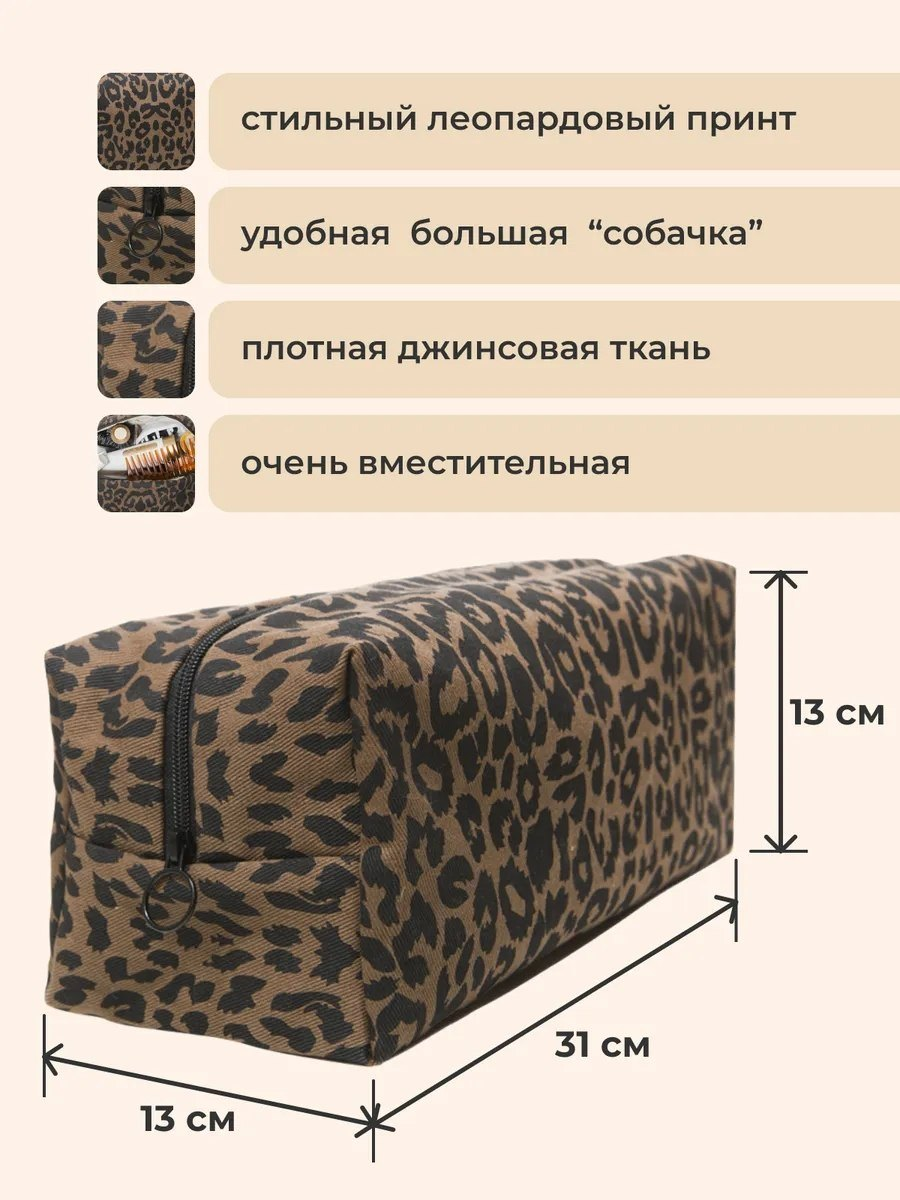
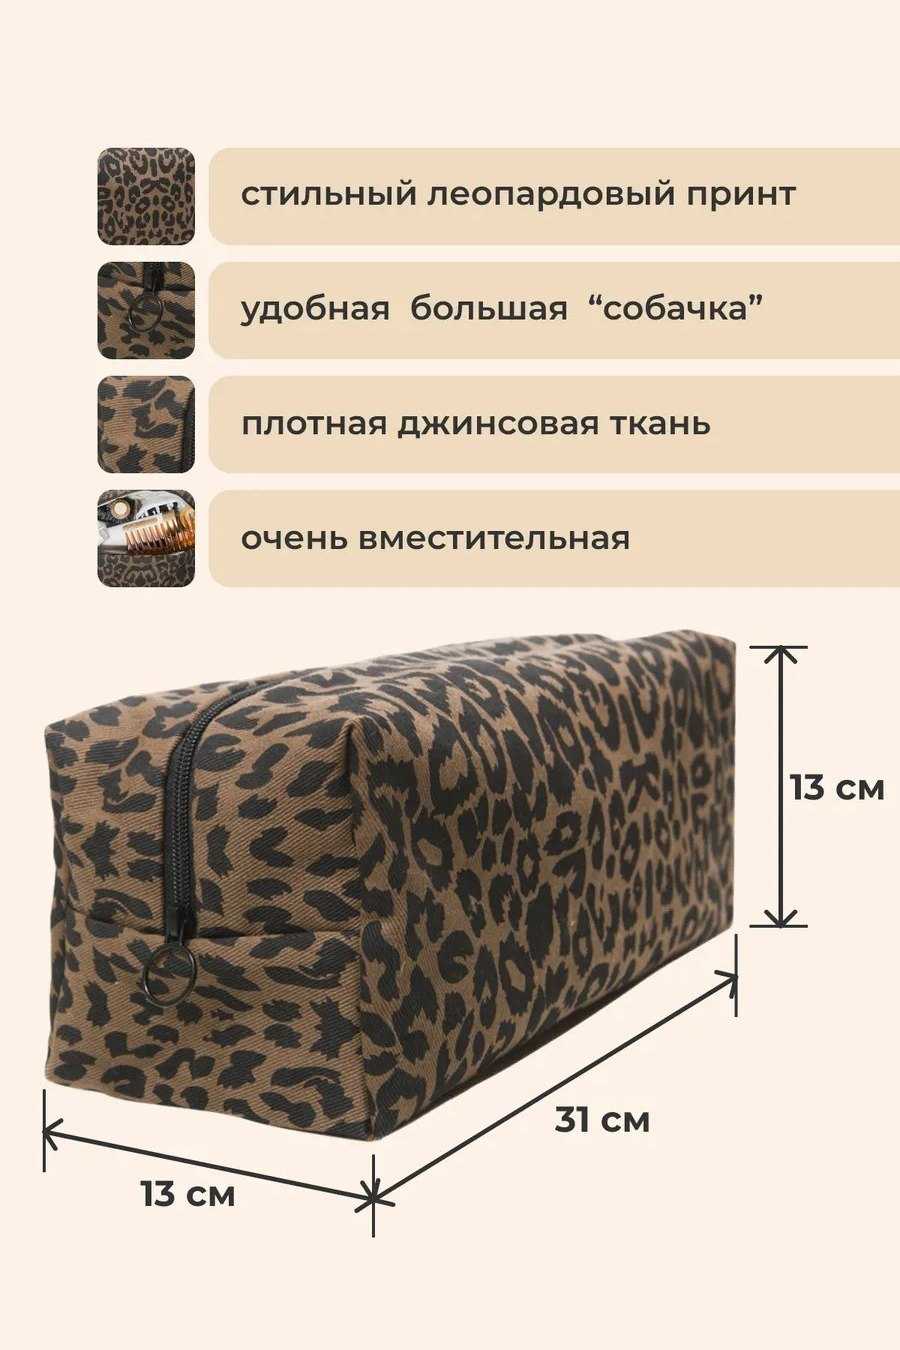
Фото косметички влезают в рамку; уведомления спрашиваем только в приложении
ФОТО. Съёмка пришла в 3:4, а витрина показывает кадр в рамке 2:3 и режет
лишнее по бокам. У инфографики из-за этого обрывался текст: «13 см» теряло
букву, «для насадок» обрезалось, у коробки срезало края — владелец так и
сказал, «показывается не полностью». Кадры дополнены до 2:3 полями цвета
студийного фона, а у снимка с коробкой сняты впечатанные чёрные поля по
50 пикселей — без них он ровно 2:3 и подгонять нечего.

Заменяем только фотографии, вторым посевом: название, цена и описание —
дело владельца, их не трогаем. Посев умеет теперь не только заводить
карточку, но и править существующую.

УВЕДОМЛЕНИЯ. Полоса «Сообщать о заказе?» больше не показывается на сайте —
только в установленном приложении, как и просил владелец: на витрину человек
зашёл посмотреть, а приложение поставил осознанно. То же и для карточки на
экране «Заказ оформлен». Экран Профиль → Уведомления остаётся доступен
везде: туда приходят сами, это не навязывание.

Проверено: с чистого состояния оба посева отрабатывают по разу и молчат при
повторе, все пять фото становятся 2:3 и в рамке видны целиком.

diff --git a/server/seed-products.js b/server/seed-products.js
@@ -62,19 +62,24 @@ function writeMarks(applied) {
    Сами посевы. Ключ — то, по чему считается «уже применён»; менять его нельзя,
    иначе товар заведётся второй раз.
    -------------------------------------------------------------------------- */
+/** Фотографии косметички в порядке показа. */
+function bagPhotos() {
+  return [
+    dataUrl('seed/bag/01-glavnoe.jpg'),
+    dataUrl('seed/bag/02-vnutri.jpg'),
+    dataUrl('seed/bag/03-razmery.jpg'),
+    dataUrl('seed/bag/04-kachestvo.jpg'),
+    dataUrl('seed/bag/05-korobka.jpg')
+  ].filter(Boolean);
+}
+
 const SEEDS = [
   {
     key: 'bag-treeza-2026-09',
     title: 'косметичка-чехол TREEZA',
     sku: 'LC-BAG-TREEZA',
     build: () => {
-      const photos = [
-        dataUrl('seed/bag/01-glavnoe.jpg'),
-        dataUrl('seed/bag/02-vnutri.jpg'),
-        dataUrl('seed/bag/03-razmery.jpg'),
-        dataUrl('seed/bag/04-kachestvo.jpg'),
-        dataUrl('seed/bag/05-korobka.jpg')
-      ].filter(Boolean);
+      const photos = bagPhotos();
       /* Без фотографий карточку не заводим: пустая плитка на витрине хуже,
          чем отсутствующая. */
       if (!photos.length) return null;
@@ -103,6 +108,22 @@ const SEEDS = [
         on: true
       };
     }
+  },
+  {
+    /* Съёмка пришла в 3:4, а витрина показывает фото в рамке 2:3 и режет
+       лишнее по бокам: у инфографики обрывался текст — «13 см» теряло букву,
+       «для насадок» обрезалось, у коробки срезало края. Кадры дополнены до
+       2:3 полями цвета студийного фона, у одного сняты впечатанные чёрные
+       поля. Меняем только фотографии: название, цена и описание — дело
+       владельца, их не трогаем. */
+    key: 'bag-treeza-photos-2x3',
+    title: 'фото косметички под рамку витрины',
+    sku: 'LC-BAG-TREEZA',
+    patch: (p) => {
+      const photos = bagPhotos();
+      if (!photos.length) return null;
+      return { id: p.id, img: photos[0], gal: photos };
+    }
   }
 ];
 
@@ -120,14 +141,32 @@ function run() {
     /* Подстраховка от повторного заведения, если отметка потерялась, а товар
        на месте: одинаковый артикул — почти наверняка он и есть. */
     let already = false;
-    try {
-      already = (listProducts({ all: true }) || []).some(
-        (p) => String(p.sku || '').trim() === seed.sku
-      );
-    } catch (_) {}
+    if (!seed.patch) {
+      try {
+        already = (listProducts({ all: true }) || []).some(
+          (p) => String(p.sku || '').trim() === seed.sku
+        );
+      } catch (_) {}
+    }
 
     try {
-      if (already) {
+      if (seed.patch) {
+        /* Правка существующей карточки. Нет её — значит владелец удалил;
+           навязывать нечего, отмечаем как отработанный и идём дальше. */
+        const cur = (listProducts({ all: true }) || [])
+          .find((p) => String(p.sku || '').trim() === seed.sku);
+        if (!cur) {
+          console.log(`Посев «${seed.title}»: карточки нет, править нечего`);
+        } else {
+          const patch = seed.patch(cur);
+          if (!patch) {
+            console.warn(`Посев «${seed.title}»: нечем править, пропускаю`);
+            continue;        /* отметку не ставим — попробуем в следующий раз */
+          }
+          upsertProduct({ ...cur, ...patch });
+          console.log(`Посев «${seed.title}»: карточка #${cur.id} обновлена`);
+        }
+      } else if (already) {
         console.log(`Посев «${seed.title}»: уже есть в каталоге, пропускаю`);
       } else {
         const payload = seed.build();

diff --git a/public/index.html b/public/index.html
@@ -6345,7 +6345,9 @@ function scrDone(){
     <span class="done__ic">${svg(awaitingPay ? 'lock' : 'check','ic')}</span>
     <h1 class="done__t">${title}</h1>
     <p class="done__s">${sub}</p>
-    ${notifCard('Сообщим, когда заказ передадут в доставку — не придётся заходить и проверять.')}
+    ${(window.lcApp && lcApp.installed())
+      ? notifCard('Сообщим, когда заказ передадут в доставку — не придётся заходить и проверять.')
+      : ''}
     ${o ? `<div class="cosec" style="margin:18px 0 0;text-align:left">
       <div class="cosec__t">Детали заказа</div>
       <div class="row"><span class="row__l">Сумма</span><span class="row__v">${money(o.price)}</span></div>
@@ -9253,7 +9255,12 @@ function offerNotif(){
        || document.querySelector('.pwa')){
       return setTimeout(tick, 20000);
     }
-    if(!window.lcApp || !lcApp.bar) return;
+    /* Модуль приложения поднимается позже магазина — подождём его. */
+    if(!window.lcApp || !lcApp.bar) return setTimeout(tick, 20000);
+    /* И только в установленном приложении: на сайте не спрашиваем. Человек
+       зашёл посмотреть витрину, а не заводить отношения с уведомлениями;
+       в приложении разговор другой — его поставили осознанно. */
+    if(!lcApp.installed()) return;
     lcApp.bar(
       'Сообщать о заказе?',
       'Напишем, когда заказ поедет и когда его можно забрать.',
